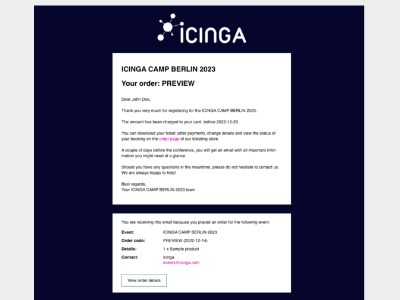
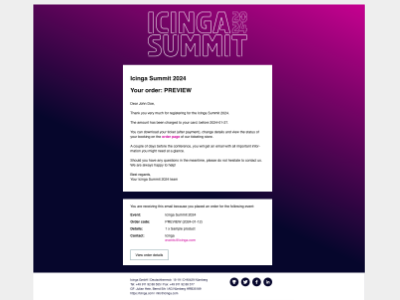
Update Icinga styles

diff --git a/pretix_net_mail/templates/pretix_net_mail/ICINGA.html b/pretix_net_mail/templates/pretix_net_mail/ICINGA.html
@@ -117,7 +117,7 @@
             a:link,
             a:visited {
             color: #cc0099;
-            text-decoration: none !important;
+            text-decoration: underline !important;
             }
             @media only screen and (max-width: 480px) {
             table#canspamBar td {
@@ -192,14 +192,14 @@
             <tbody>
                 <tr align="center">
                     <td align="center">
-                        <table align="center" bgcolor="#08066b" border="0" cellpadding="0" cellspacing="0" style="width: 100%; max-width:100%;background-color: #06062c;" width="100%">
+                        <table align="center" bgcolor="#08066b" border="0" cellpadding="0" cellspacing="0" style="width: 100%; max-width:100%;background: linear-gradient(25deg,#06062c 40%,#e0009d 100%);" width="100%">
                                    <tr align="center">
                                            <td align="center" style=" mso-line-height-rule: exactly;-ms-text-size-adjust: 100%;-webkit-text-size-adjust: 100%;" valign="middle">
                                              <table align="center" border="0" cellpadding="0" cellspacing="0" role="presentation" style="width: 600px;" width="600">
                                                  <tbody>
-                                                  <tr align="left">
-                                                    <td align="left" style="float: left; mso-line-height-rule: exactly;-ms-text-size-adjust: 100%;-webkit-text-size-adjust: 100%;padding-top: 30px;" valign="left">
-                                                     <a href="https://icinga.com/community/events/"><img src="https://icinga.com/wp-content/uploads/2022/12/icinga_logo_pretix_email.png" alt="icinga logo" style="width: 600px"></a>
+                                                  <tr align="center">
+                                                    <td align="center" style="float: center; mso-line-height-rule: exactly;-ms-text-size-adjust: 100%;-webkit-text-size-adjust: 100%;padding-top: 30px;" valign="center">
+                                                     <a href="https://icinga.com/community/events/"><img src="https://icinga.com/wp-content/uploads/2024/01/Icinga-Summit-Logo_rectangle-2024.png" alt="icinga logo" style="width: 400px"></a>
                                              </a>
                                           </td>
                                        </tr>
